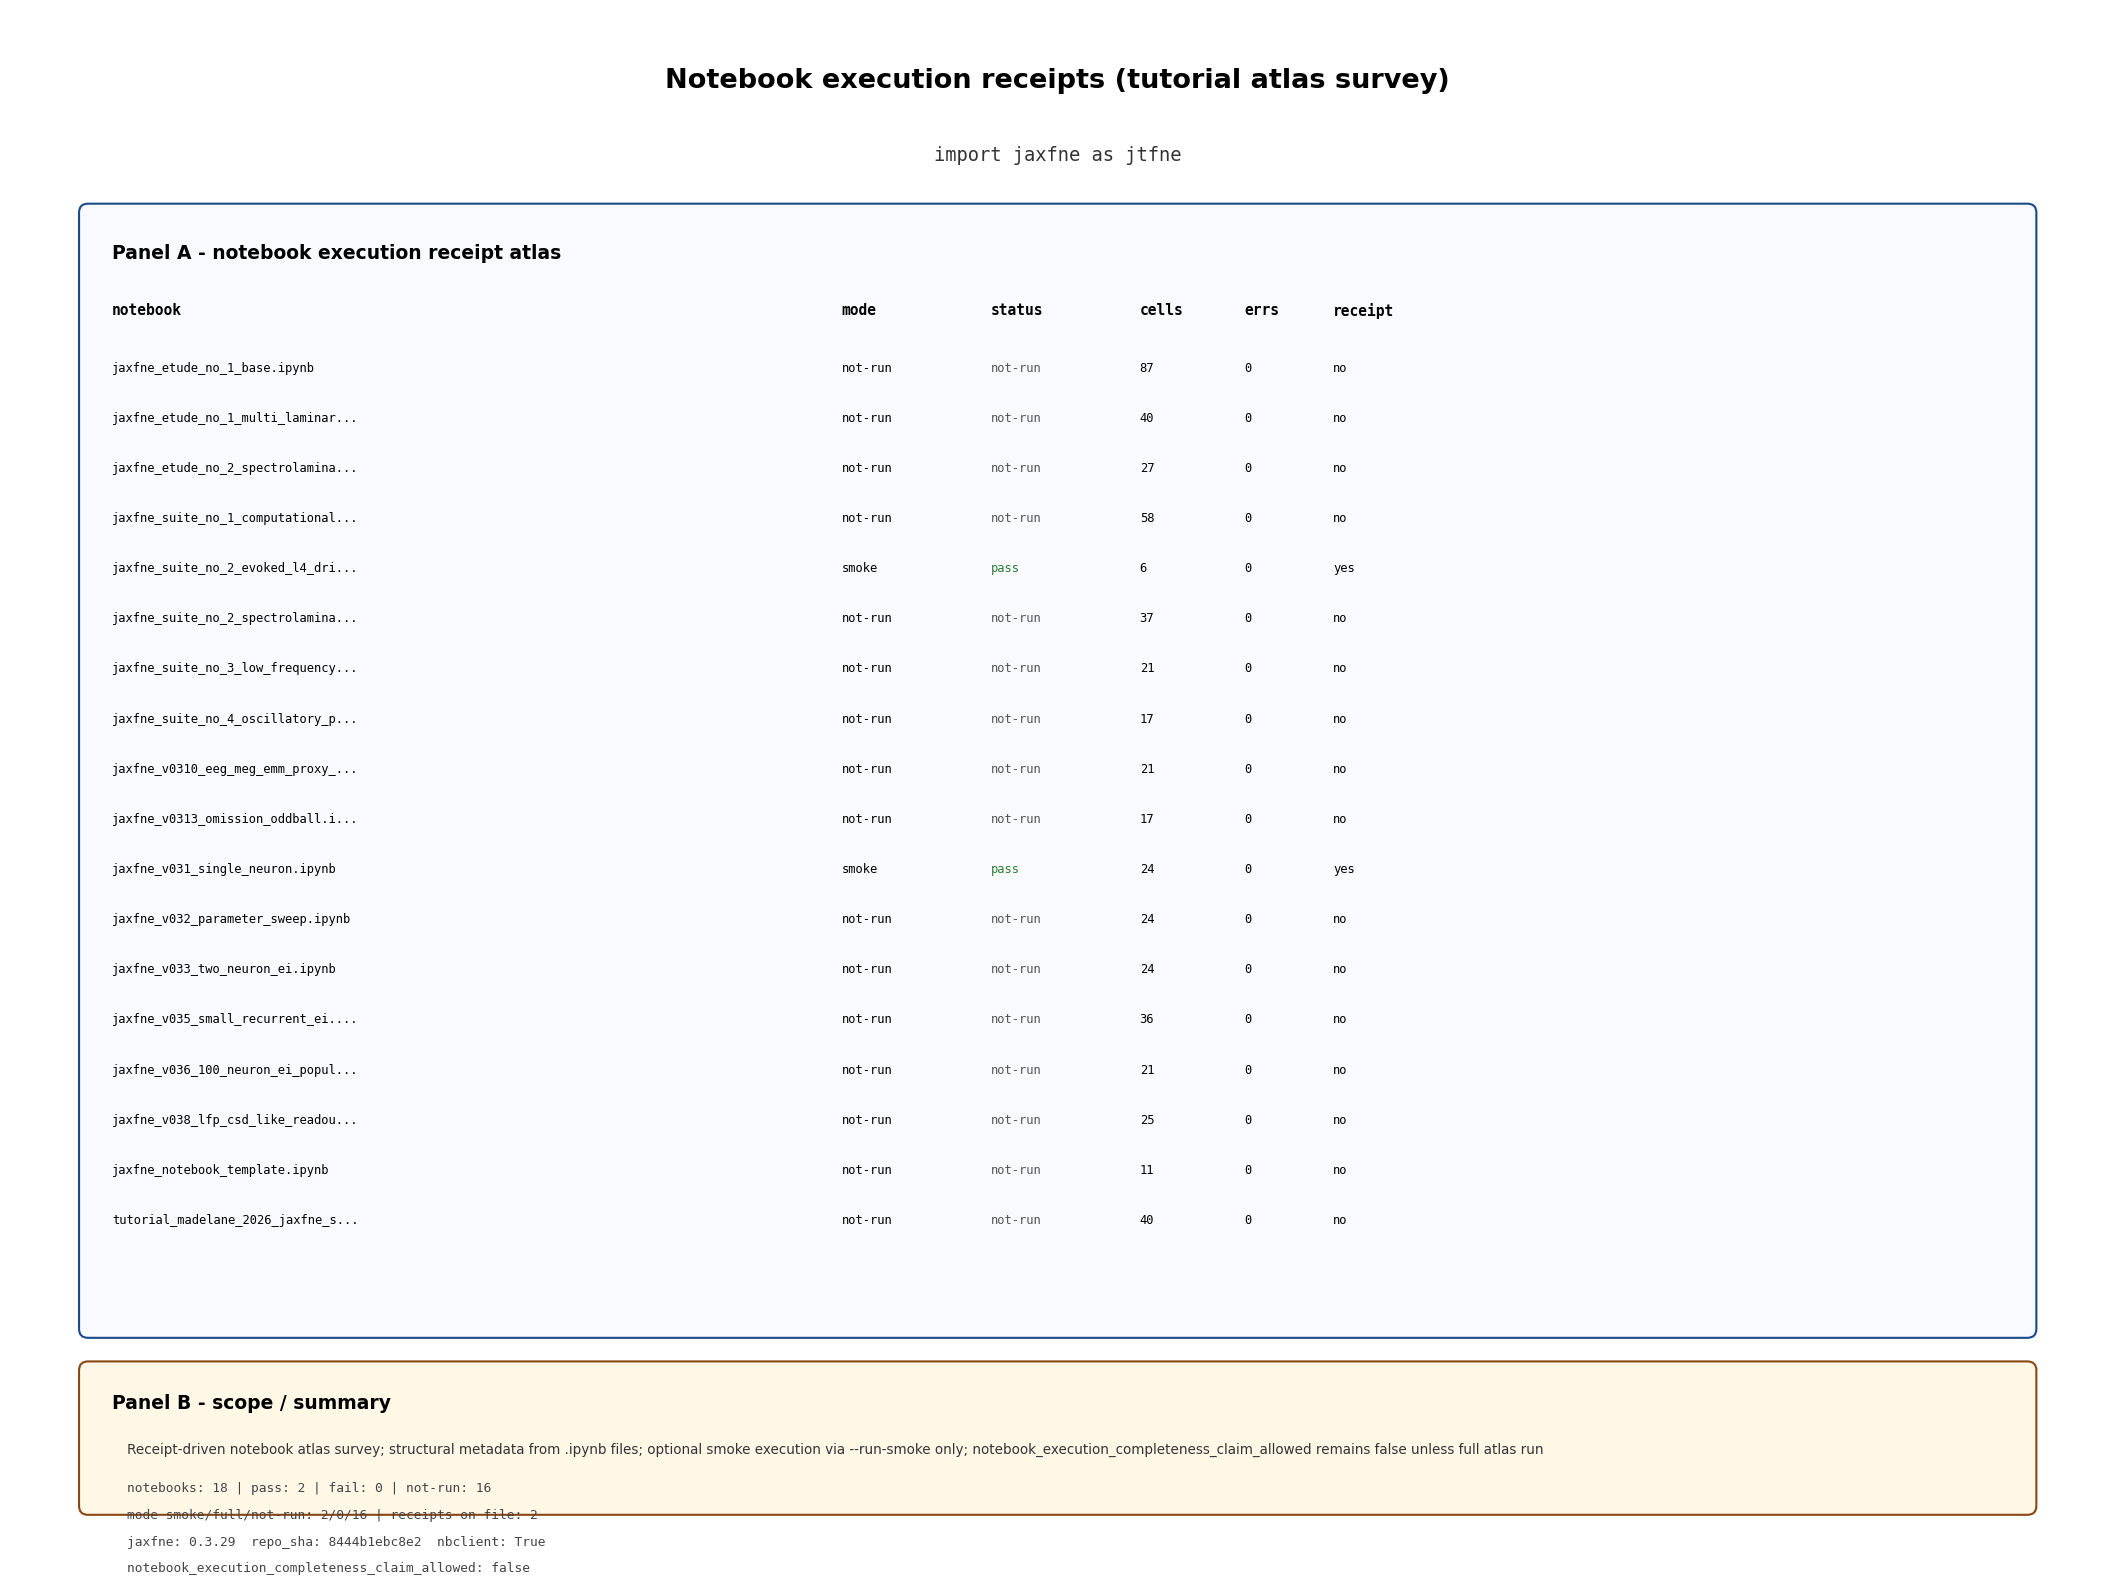
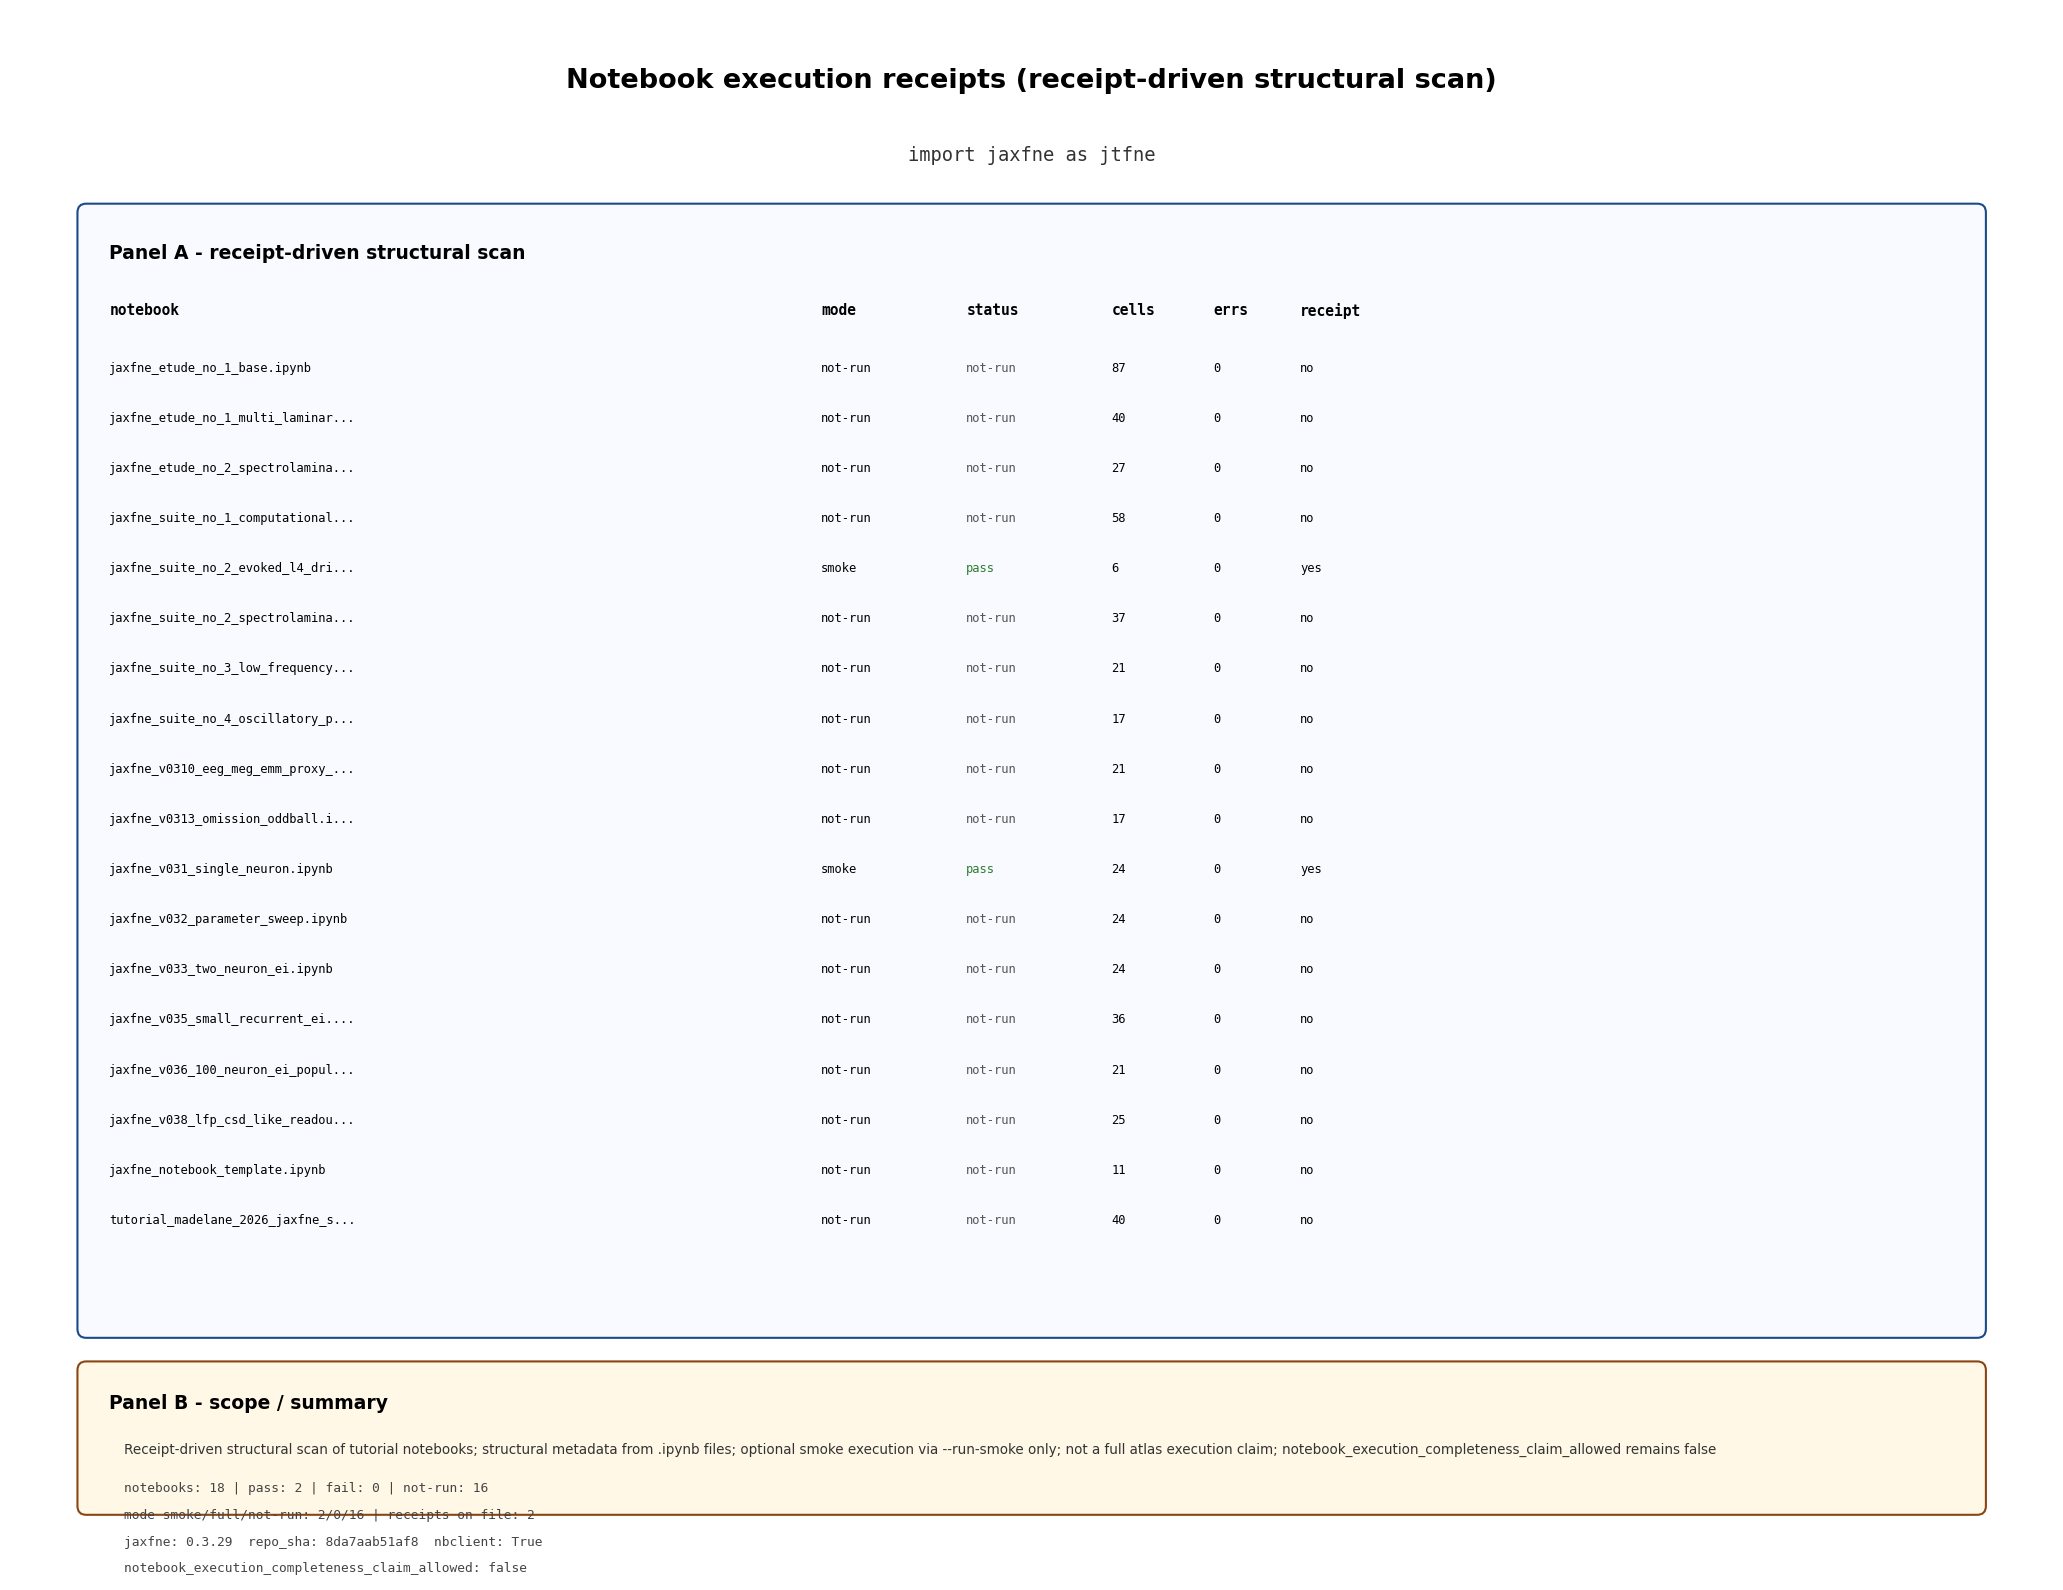
ED3: fix receipt source labels and default-mode cache semantics
- Use structural_scan, prior_receipt, smoke_executed, full_executed sources
- Panel wording: receipt-driven structural scan (not atlas executed)
- Default mode ignores ephemeral smoke cache unless --run-smoke

diff --git a/scripts/publication/ed03_notebook_execution_receipts.py b/scripts/publication/ed03_notebook_execution_receipts.py
@@ -50,12 +50,12 @@ SOURCE_FILES = [
     "tests/test_suite_no4_notebook_execution.py",
 ]
 
-TITLE = "Notebook execution receipts (tutorial atlas survey)"
+TITLE = "Notebook execution receipts (receipt-driven structural scan)"
 
 SCOPE_STATUS = (
-    "Receipt-driven notebook atlas survey; structural metadata from .ipynb files; "
-    "optional smoke execution via --run-smoke only; "
-    "notebook_execution_completeness_claim_allowed remains false unless full atlas run"
+    "Receipt-driven structural scan of tutorial notebooks; structural metadata from .ipynb files; "
+    "optional smoke execution via --run-smoke only; not a full atlas execution claim; "
+    "notebook_execution_completeness_claim_allowed remains false"
 )
 
 # Controlled smoke subset (short runtime notebooks only).
@@ -301,8 +301,9 @@ def _build_notebook_row(
     receipt_rel, receipt_data = _find_external_receipt(root, rel)
     if receipt_data is not None and receipt_rel:
         row["artifact_receipt_path"] = receipt_rel
-        row["source"] = "external_receipt"
-        row["mode"] = _mode_from_receipt(receipt_data) or "full"
+        resolved_mode = _mode_from_receipt(receipt_data) or "full"
+        row["source"] = "full_executed" if resolved_mode == "full" else "prior_receipt"
+        row["mode"] = resolved_mode
         row["execution_status"] = _status_from_receipt(receipt_data) or "receipt-on-file"
         row["last_verified_sha"] = receipt_data.get("repo_sha") or receipt_data.get("verified_repo_sha")
         row["last_verified_at_utc"] = receipt_data.get("generated_at_utc") or receipt_data.get(
@@ -312,6 +313,14 @@ def _build_notebook_row(
     for cache in (prior_ed03, prior_aggregate):
         if rel in cache:
             cached = cache[rel]
+            cached_source = cached.get("source")
+            has_explicit_receipt = bool(cached.get("artifact_receipt_path"))
+            if not run_smoke and (
+                cached_source == "smoke_executed"
+                or cached.get("mode") == "smoke"
+                or not has_explicit_receipt
+            ):
+                continue
             if row["execution_status"] == "not-run" and cached.get("execution_status"):
                 row["execution_status"] = cached["execution_status"]
             if row["mode"] == "not-run" and cached.get("mode"):
@@ -322,8 +331,11 @@ def _build_notebook_row(
                 row["last_verified_sha"] = cached["last_verified_sha"]
             if not row["last_verified_at_utc"] and cached.get("last_verified_at_utc"):
                 row["last_verified_at_utc"] = cached["last_verified_at_utc"]
-            if row["source"] == "structural_scan":
-                row["source"] = "prior_receipt_cache"
+            if row["source"] == "structural_scan" and cached_source in {
+                "prior_receipt",
+                "full_executed",
+            }:
+                row["source"] = cached_source
 
     if run_smoke and rel in SMOKE_NOTEBOOKS:
         try:
@@ -334,7 +346,7 @@ def _build_notebook_row(
             row["error_samples"] = exec_result.get("error_samples", [])
             row["last_verified_sha"] = exec_result["verified_repo_sha"]
             row["last_verified_at_utc"] = exec_result["executed_at_utc"]
-            row["source"] = "smoke_execution"
+            row["source"] = "smoke_executed"
             smoke_receipt_rel = f"outputs/publication/smoke_receipts/{nb_path.stem}.json"
             row["artifact_receipt_path"] = smoke_receipt_rel
         except Exception as exc:
@@ -344,7 +356,7 @@ def _build_notebook_row(
             row["error_samples"] = [str(exc)[:120]]
             row["last_verified_sha"] = repo_sha()
             row["last_verified_at_utc"] = utc_now_iso()
-            row["source"] = "smoke_execution"
+            row["source"] = "smoke_executed"
 
     return row
 
@@ -423,7 +435,7 @@ def draw_figure(rows: list[dict], summary: dict, receipt: dict) -> None:
         facecolor="#F8FAFF",
     )
     ax.add_patch(table_box)
-    ax.text(0.65, 8.95, "Panel A - notebook execution receipt atlas", fontsize=9, fontweight="bold", va="top")
+    ax.text(0.65, 8.95, "Panel A - receipt-driven structural scan", fontsize=9, fontweight="bold", va="top")
 
     headers = ["notebook", "mode", "status", "cells", "errs", "receipt"]
     col_x = [0.65, 5.55, 6.55, 7.55, 8.25, 8.85]
@@ -484,7 +496,7 @@ def _write_smoke_receipts(rows: list[dict]) -> None:
     smoke_dir = root / "outputs" / "publication" / "smoke_receipts"
     smoke_dir.mkdir(parents=True, exist_ok=True)
     for row in rows:
-        if row.get("source") != "smoke_execution":
+        if row.get("source") != "smoke_executed":
             continue
         rel = row.get("artifact_receipt_path")
         if not rel:
@@ -587,7 +599,7 @@ def main() -> int:
         extra={
             "scope_status": SCOPE_STATUS,
             "generator_command": "python scripts/publication/ed03_notebook_execution_receipts.py",
-            "claim_boundary": "receipt_driven_atlas_survey",
+            "claim_boundary": "receipt_driven_structural_scan",
             "summary": summary,
             "runtime_receipt": receipt,
             "receipt_json_path": str(RECEIPT_JSON_PATH.relative_to(root)),
